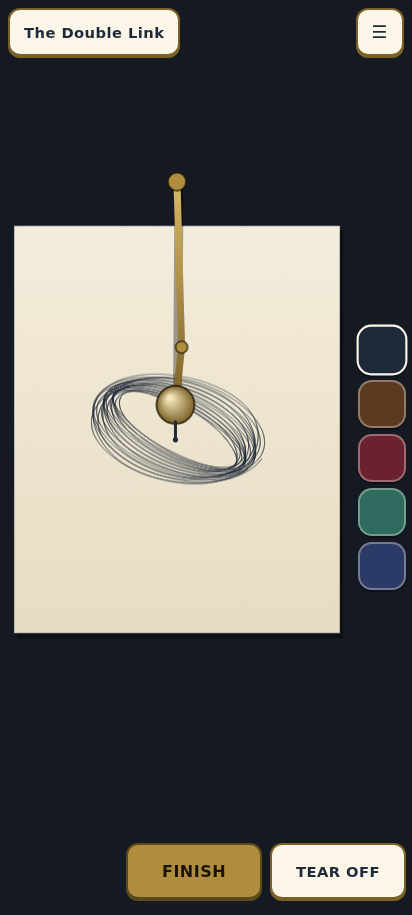
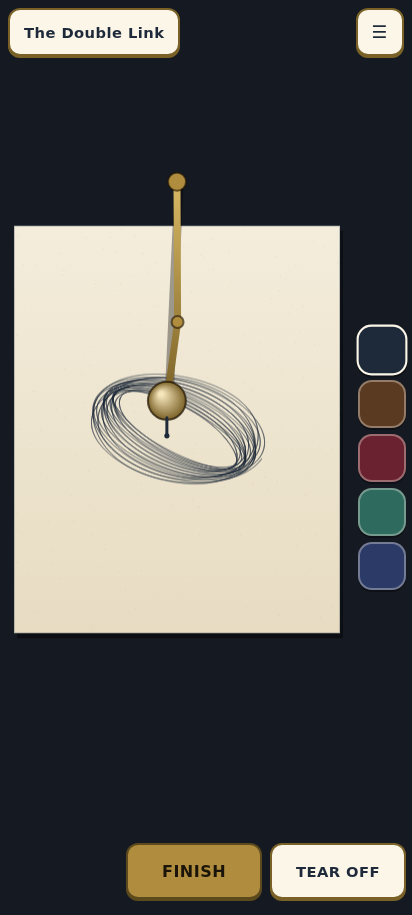
Inkswing: the Double Link shots opened, SESSION STATE and the evidence ledger for P3 step 4
Claude-Session: https://claude.ai/code/session_01CohA1CK6e5eCWUdrKWPpuM

Changed region(s): [[0.3495, 0.2142, 0.4951, 0.4896]]

diff --git a/plans/inkswing/HANDOFF-INKSWING.md b/plans/inkswing/HANDOFF-INKSWING.md
@@ -35,6 +35,42 @@ on branch `add-sproing-jumper` tonight.
   steps 1 to 3 landing early and they did not.
   **Next action: none. The plan is finished.** Fable reviews it per the spine
   section 6.
+- 2026-09-06 builder (14:28 to 15:20 UTC, shared tree, Fable deploys): **P3 STEP
+  4, THE DOUBLE LINK, IS BUILT.** Stamp `20260906d` in three places. `sim`
+  99 assertions (was 87), `fling` 38 (was 31), `tools/check.js` ALL GATES
+  PASSED at 14:49 UTC. Commits `eb58664e` (the model and suiteDouble),
+  `ae1d3a6e` (the rig opens, a real fling on it draws ink), `5a3661b9` (drawn
+  as a chain, thrown from the chain's rest shape, stamp, docs), and the shots
+  and this entry after. In the SIM block: two coupled damped links, linearised,
+  fixed 240 Hz step, one Float64 trajectory per throw cached by the throw's
+  numbers, `posAt` a lookup with linear interpolation, `traceOf` unchanged.
+  ⛔ **Runge Kutta, not the semi implicit Euler this entry's predecessor named**:
+  measured with the plan's own limit assertion, symplectic Euler at 240 Hz
+  misses the closed form single by 3.0 units at C4 and 6.8 at C5 (its w h / 2
+  amplitude wobble); the assertion allows 0.05. Fourth order lands inside
+  0.002. The four assertions of the plan each watched to fail (damping sign
+  flipped, an unseeded die in the step, the detune dropped, the reach scale
+  dropped), plus the symplectic Euler run above as a fifth. `flingToThrow` on
+  the numeric rig keeps `rel` (release position and velocity); its `pend` terms
+  are both link 1 so the link and the hum still work, link 2 takes its note
+  from `lengths[1]`, and `releaseOf` derives the release for a throw that came
+  in over a link (inside 1.5 units). ⛔ Two things found by OPENING the shot,
+  both fixed: started with both links straight along the pull the rig drew the
+  Single's ellipses with a wobble nobody could see, so the release now puts the
+  chain in its rest shape under a sideways pull (first bob at
+  w2^2 / (w2^2 + 2 w1^2) of the pull); and the rig was drawn as one rod, so it
+  is a chain now with the knuckle at the first bob. The rig list re counts the
+  folio when the rig screen is opened (it was stale for a folio filled any way
+  but the keep button). **Thin:** the shot's throw is moderate and the drawing
+  sits small around the bob; a harder thumb throw fills the sheet (the reach
+  scale only scales down). The chain's side view is a picture, not a
+  projection: the knuckle's x is the model's, its height is the links' share
+  of the rod. Not watched to fail: the fling gate's "draws ink" and "bob where
+  the integrator puts it" on the Double Link (their twins on the Single were).
+  **Next action:** Fable reviews per the spine section 6 and deploys; Stephen's
+  thumb on the Double Link (keep 12 first, or push 12 into the folio from the
+  dev console), and his call on whether the second link should be visibly
+  wilder (a lighter second bob, k below 1, is one number in CONFIG).
 
 ---
 
@@ -550,6 +586,66 @@ the drawing precess.
   stops above them now and the layout gate has an assertion about it.
 - Every shot had "Grab the brass bob" written across the drawing, because the
   first boot hint is a three second toast and every shot was taken inside it.
+
+### P3 step 4, the Double Link (2026-09-06 afternoon)
+
+```
+$ date -u
+Sun Sep  6 14:49:07 UTC 2026
+$ flock -w 1800 /tmp/sws-gate.lock node tools/check.js
+sim             pass  2s
+lint            pass  0s
+fling           pass  9s
+sound           pass  3s
+share           pass  3s
+poster          pass  4s
+layout          pass  4s
+
+ALL GATES PASSED
+
+$ node sim.js --test | tail -2
+PASSED 99 / FAILED 0   (total 99)
+INKSWING TEST OK
+$ node test/fling.mjs | tail -9
+  ok    with twelve drawings kept the Double Link is a 48 px card on the rig screen (72)
+  ok    and it is open
+  ok    tapping it puts the Double Link on the sheet
+  ok    a real fling on the Double Link is one throw that keeps its release (1785 units a second)
+  ok    and it draws ink (0.256 percent of the sheet)
+  ok    with the bob exactly where the integrator puts it (0.0e+0)
+  ok    no page errors
+FLING OK
+```
+
+The four assertions of the plan, each watched to fail on a scratch copy
+(`INKSWING_HTML=<copy> node sim.js --test`):
+
+```
+== damping sign flipped in the integrator
+FAIL  the energy never rises with no throw (21601 samples, worst rise 3.4e+2)   [expected 0, got 10543]
+== an unseeded die added to the step
+FAIL  the same sheet twice gives the same trace, with the cache emptied between (first differs at point 0 ...)
+== the detune dropped from the integrator (w in place of wEff)
+FAIL  with link 2 at nought the integrator matches the closed form single inside 0.05 over twenty seconds (worst 234.7995)
+== the reach scale dropped
+FAIL  the pen never leaves the sheet, even thrown as hard as a hand can on a unison (632 by 648 of a sheet 1000 by 1250)
+== symplectic Euler at 240 Hz in place of Runge Kutta (the plan's integrator)
+FAIL  the energy never rises with no throw (21601 samples, worst rise 7.8e+2)   [expected 0, got 8933]
+FAIL  with link 2 at nought the integrator matches the closed form single inside 0.05 over twenty seconds (worst 3.0014)
+FAIL  and at the top of the slider too, where a first order step would wobble by units (worst 6.8078)
+```
+
+The fling gate's three new assertions about the rig screen were watched to
+fail on the real bug (the rig list counted a stale folio) before `showScreen`
+re rendered it; "keeps its release" failed at 0 units a second on the same run.
+
+Shots opened: `docs/shots/p3-double.png` (412x915) and `p3-double-375.png`.
+First cut: the Single's ellipses under a different name, one rod. Second cut:
+the chain, the knot folded into a band with two dense crossings, the knuckle
+fifty five pixels above the bob whatever the lengths. Third cut: the knuckle
+at the links' share of the rod. Still thin: the drawing is small around the
+bob at the shot's moderate throw, and the sheet floats in empty ground on the
+412 (known, section 15).
 
 ---
 
